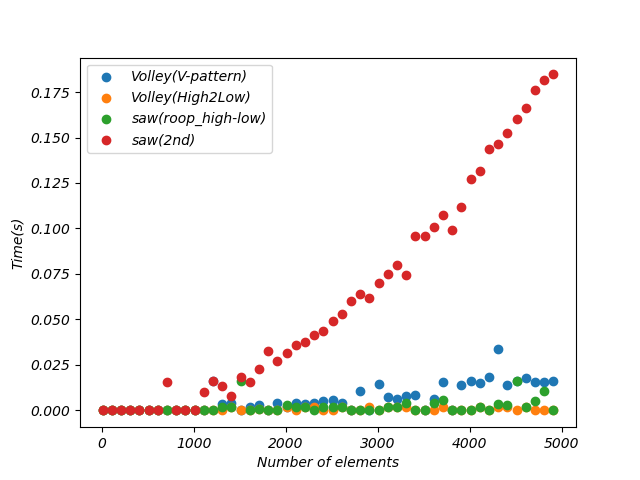
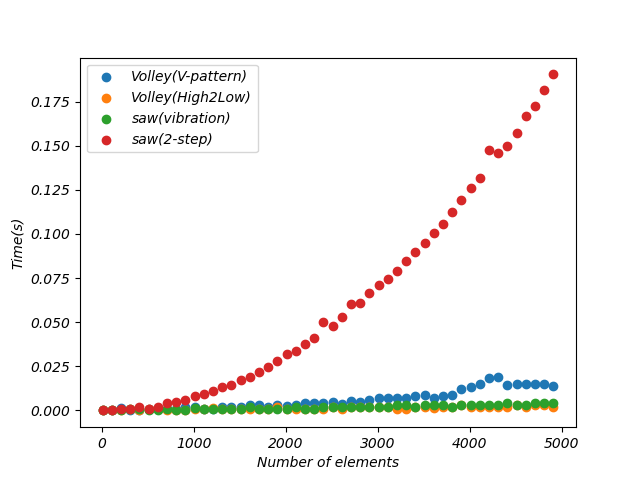
Add files via upload

diff --git a/sort_algrithm.py b/sort_algrithm.py
@@ -82,7 +82,7 @@ def saw2_array(n):
     a=[]
     for i in range(0, n, 2):
         a.append(i)
-    for i in range(0, n, 2):
+    for i in range(1, n, 2):
         a.append(i)
     return a
 
@@ -136,8 +136,8 @@ for i in range(10, 5000, 100):
     
 plt.scatter(val, volly, label="Volley(V-pattern)")
 plt.scatter(val, volly2, label="Volley(High2Low)")
-plt.scatter(val, saw, label="saw(roop_high-low)")
-plt.scatter(val, saw2, label="saw(2nd)")
+plt.scatter(val, saw, label="saw(vibration)")
+plt.scatter(val, saw2, label="saw(2-step)")
 plt.legend()
 plt.xlabel("Number of elements")
 plt.ylabel("Time(s)")
@@ -146,8 +146,8 @@ plt.show()
 
 plt.scatter(val, cnt_v, label="Volley(V-pattern)")
 plt.scatter(val, cnt_v2, label="Volley(High2Low)")
-plt.scatter(val, cnt_s, label="saw")
-plt.scatter(val, cnt_s2, label="saw2")
+plt.scatter(val, cnt_s, label="saw(vibration)")
+plt.scatter(val, cnt_s2, label="saw2(2-step)")
 plt.legend()
 plt.xlabel("Number of elements")
 plt.ylabel("Number of swap")
@@ -156,8 +156,8 @@ plt.show()
 
 plt.scatter(val, dep_v, label="Volley(V-pattern)")
 plt.scatter(val, dep_v2, label="Volley(High2Low)")
-plt.scatter(val, dep_s, label="saw")
-plt.scatter(val, dep_s2, label="saw")
+plt.scatter(val, dep_s, label="saw(vibration)")
+plt.scatter(val, dep_s2, label="saw(2-step)")
 plt.legend()
 plt.xlabel("Number of elements")
 plt.ylabel("Number of depth")
